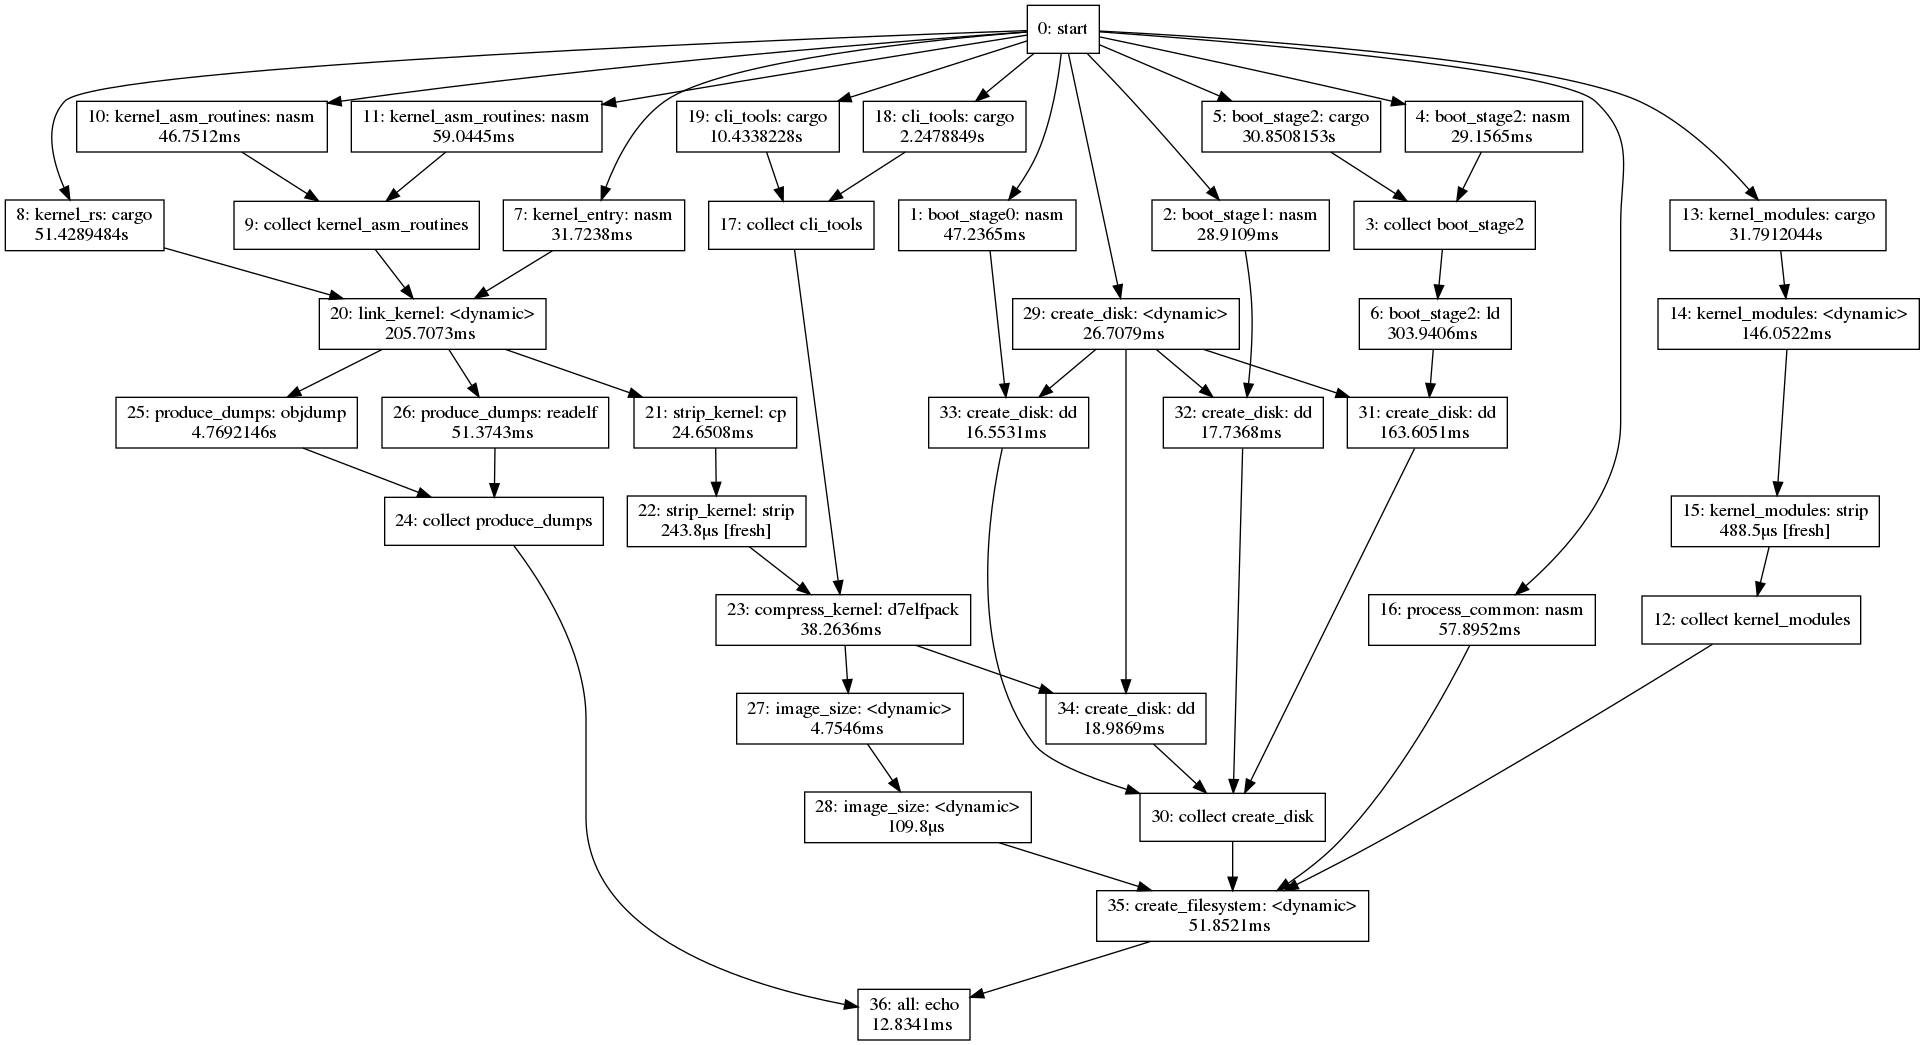
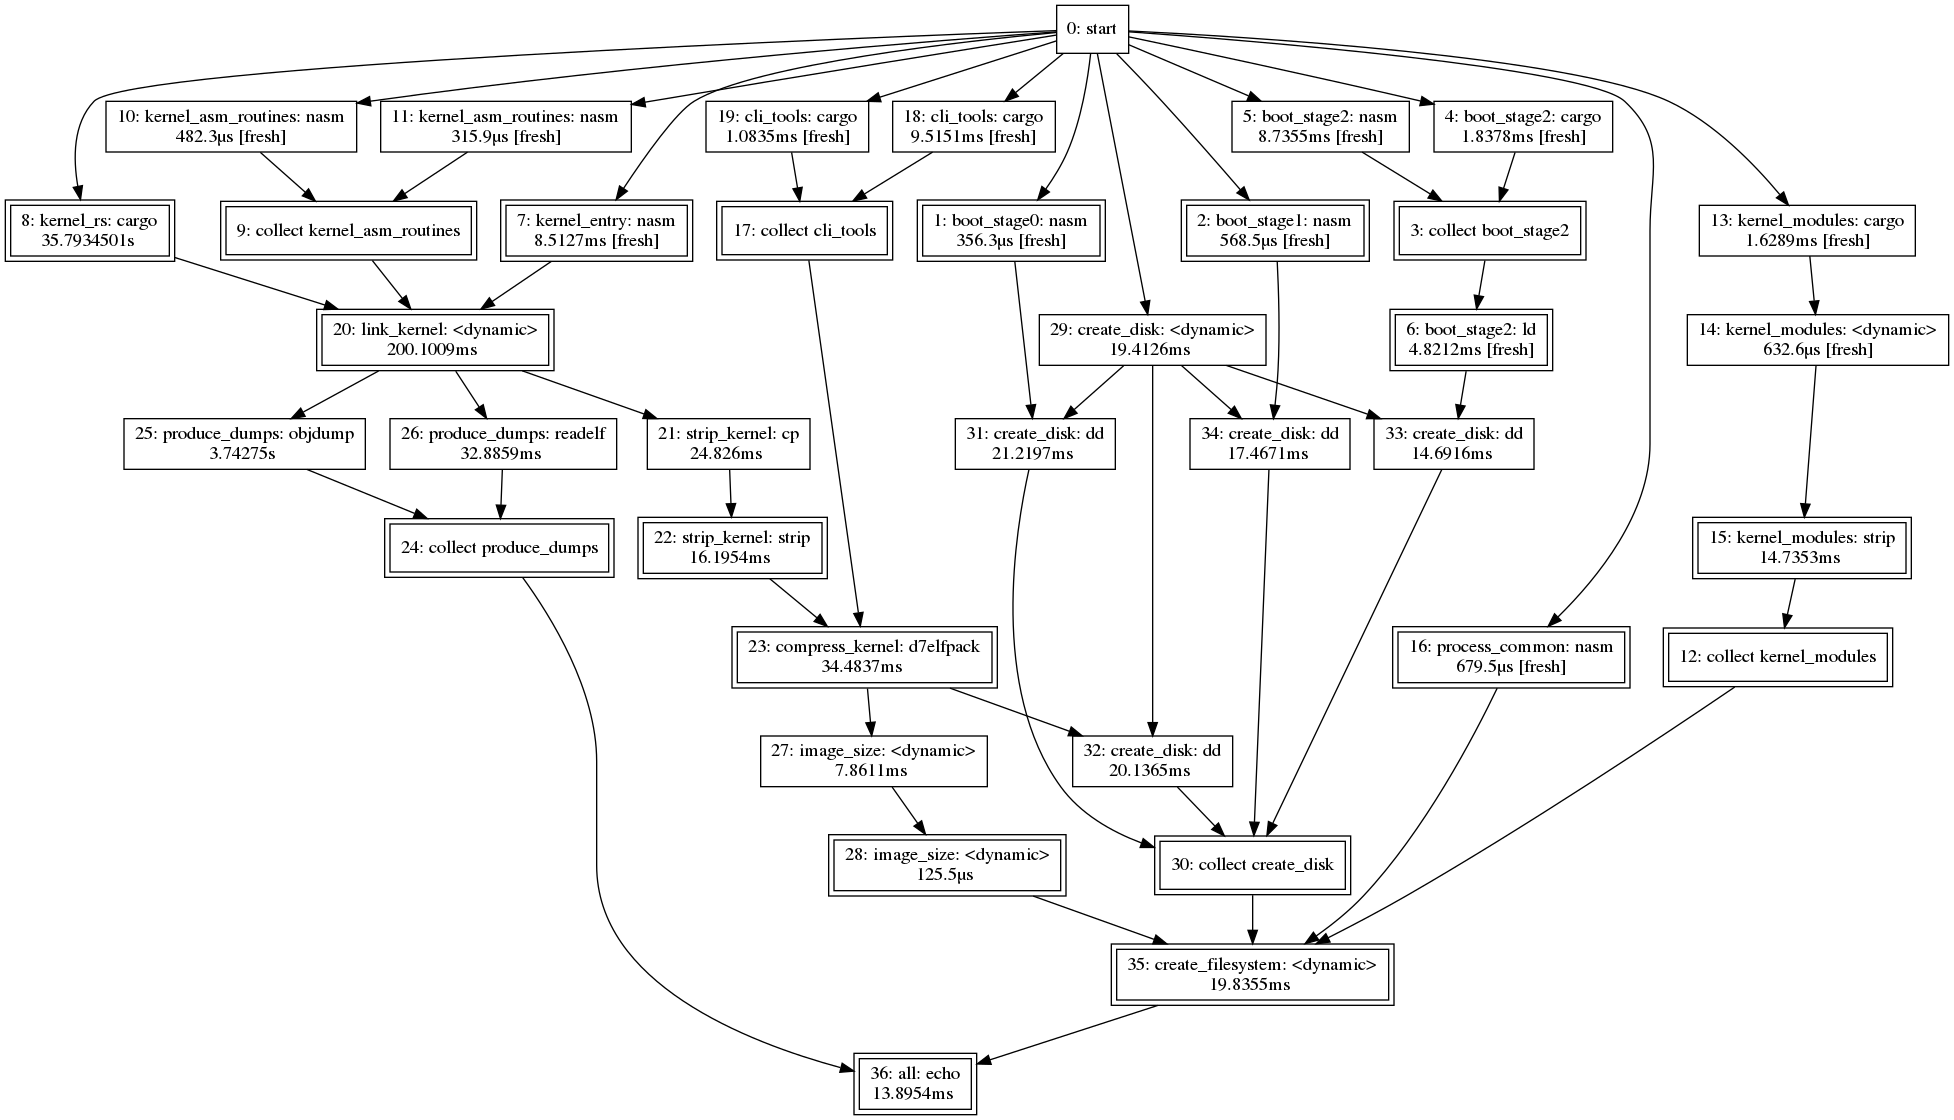
Identify and mark possible build targets

diff --git a/src/config.rs b/src/config.rs
@@ -88,6 +88,7 @@ pub fn read<'py>(
         id: start_id,
         requires: HashSet::new(),
         py_obj: None,
+        target_name: None,
         name: "start".to_owned(),
     });
 
@@ -96,7 +97,7 @@ pub fn read<'py>(
         if name_str.starts_with("step_") {
             let py_step = value.call1((root_path,))?;
             let n = name_str.splitn(2, '_').last().unwrap();
-            let new_steps = create_steps(py, py_step, &mut next_id, start_id, &n)?;
+            let new_steps = create_steps(py, py_step, &mut next_id, start_id, &n, true)?;
             assert!(!new_steps.is_empty());
             step_fn_to_id.push((value, new_steps.last().unwrap().id));
             steps.extend(new_steps);
@@ -137,11 +138,12 @@ pub fn read<'py>(
 /// as not all necessary information is available yet. However, tuples
 /// and sets already use `requires` field to mark their internal order.
 fn create_steps<'a>(
-    py: Python,
-    py_step: &'a PyAny,
-    next_id: &mut StepId,
-    requires_id: StepId,
-    step_name: &str,
+    py: Python,           // Python GIL
+    py_step: &'a PyAny,   // Python `Step` object from src/python/factory.py
+    next_id: &mut StepId, // Id for the next step
+    requires_id: StepId,  // Requirement for the next step
+    step_name: &str,      // Name of the current Python step function
+    last_part: bool,      // Is the `step_name` completed after this step
 ) -> PyResult<Vec<Step<'a>>> {
     if py.is_instance::<PyTuple, _>(py_step)? {
         // Tuple, i.e. a sequence of steps
@@ -150,7 +152,14 @@ fn create_steps<'a>(
         let mut steps: Vec<Step> = Vec::new();
         let mut next_requires = requires_id;
         for i in 0..t_len {
-            let new_steps = create_steps(py, tuple.get_item(i), next_id, next_requires, step_name)?;
+            let new_steps = create_steps(
+                py,
+                tuple.get_item(i),
+                next_id,
+                next_requires,
+                step_name,
+                i + 1 == t_len,
+            )?;
             assert!(!new_steps.is_empty());
             next_requires = new_steps.last().unwrap().id; // FIXME: last?
             steps.extend(new_steps);
@@ -165,13 +174,14 @@ fn create_steps<'a>(
             id: next_id.take(),
             requires: HashSet::new(),
             py_obj: None,
+            target_name: Some(step_name.to_owned()),
             name: format!("collect {}", step_name),
         };
 
         // Go through all items
         let mut steps: Vec<Step> = Vec::new();
         for item in set.iter()? {
-            let new_steps = create_steps(py, item?, next_id, requires_id, step_name)?;
+            let new_steps = create_steps(py, item?, next_id, requires_id, step_name, false)?;
             assert!(!new_steps.is_empty());
 
             // Insert `requires` fields
@@ -198,6 +208,11 @@ fn create_steps<'a>(
             id: next_id.take(),
             requires,
             py_obj: Some(py_step),
+            target_name: if last_part {
+                Some(step_name.to_owned())
+            } else {
+                None
+            },
             name: format!("{}: {}", step_name, sub_name),
         }])
     }

diff --git a/src/lib.rs b/src/lib.rs
@@ -32,6 +32,18 @@ impl RunStatistics {
     }
 }
 
+/// Assumes ascii-only text, but uses unicode ellipsis
+fn truncate_ellipisis(max_len: usize, s: &str) -> String {
+    assert!(max_len >= 1);
+    if s.len() > max_len {
+        let mut res = s[..(max_len - 1)].to_owned();
+        res.push('\u{2026}');
+        res
+    } else {
+        s.to_owned()
+    }
+}
+
 pub fn run(
     _py: Python,
     steps: &[Step],
@@ -60,14 +72,27 @@ pub fn run(
     let pb = ProgressBar::new(p.total_count());
     pb.set_style(
         ProgressStyle::default_bar()
-            .template("[{elapsed_precise}] {bar:20} {pos:>4}/{len:4} {msg}")
-            .progress_chars("#>-"),
+            .template("[{elapsed_precise}] {bar:20} [{pos:>4}/{len:4}] {msg:36!}")
+            .progress_chars("##-"),
     );
+    pb.enable_steady_tick(100);
 
     loop {
-        pb.set_position(p.completed_count());
-        pb.set_message(&format!("{} running", p.running_count()));
         while let Some(step_id) = p.get_task() {
+            pb.set_position(p.completed_count());
+            let mut ids: Vec<StepId> = p.running_ids().into_iter().collect();
+            ids.sort();
+            pb.set_message(&truncate_ellipisis(
+                36,
+                &format!(
+                    "{}: {:}",
+                    ids.len(),
+                    ids.into_iter()
+                        .map(|id| { step_by_id.get(&id).unwrap().name.clone() })
+                        .collect::<Vec<_>>()
+                        .join(", ")
+                ),
+            ));
             let step = step_by_id[&step_id];
             if let Some(py_obj) = step.py_obj {
                 let start = std::time::Instant::now();

diff --git a/src/step.rs b/src/step.rs
@@ -2,7 +2,7 @@ use pyo3::types::*;
 use std::collections::HashSet;
 use std::fmt;
 
-#[derive(Copy, Clone, PartialEq, Eq, Hash)]
+#[derive(Copy, Clone, PartialEq, Eq, PartialOrd, Ord, Hash)]
 pub struct StepId(u64);
 impl StepId {
     pub fn first() -> Self {
@@ -28,9 +28,15 @@ impl fmt::Display for StepId {
 
 #[derive(Debug, Clone)]
 pub struct Step<'a> {
+    /// Step id
     pub id: StepId,
+    /// Dependencies
     pub requires: HashSet<StepId>,
+    /// Associated Python object, if any
     pub py_obj: Option<&'a PyAny>,
+    /// Name used to specify which target to build.
+    /// Only available if this step can be used as a build target.
+    pub target_name: Option<String>,
     /// Display name, for debugging / visualization only
     pub name: String,
 }

diff --git a/src/depgraph.rs b/src/depgraph.rs
@@ -39,8 +39,9 @@ pub fn to_dot(steps: &[Step], stats: RunStatistics) -> String {
     for s in steps.iter() {
         let stat = stats.commands.get(&s.id);
         dot.push_str(&format!(
-            "node{} [shape=box,label=\"{}: {}\n{}\"]\n",
+            "node{} [shape=box,peripheries={},label=\"{}: {}\n{}\"]\n",
             s.id,
+            if s.target_name.is_some() { 2 } else { 1 },
             s.id,
             s.name,
             stat.map(|st| format!("{:?} {}", st.time, if st.fresh() { "[fresh]" } else { "" }))

diff --git a/src/parallelize.rs b/src/parallelize.rs
@@ -41,6 +41,10 @@ impl Parallelizer {
         self.total_count() - self.pending_count() - self.running_count()
     }
 
+    pub fn running_ids(&self) -> HashSet<StepId> {
+        self.running.clone()
+    }
+
     pub fn get_task(&mut self) -> Option<StepId> {
         'outer: for p in self.pending.clone().into_iter() {
             for dep in self.graph.dependencies_of(p).iter() {
